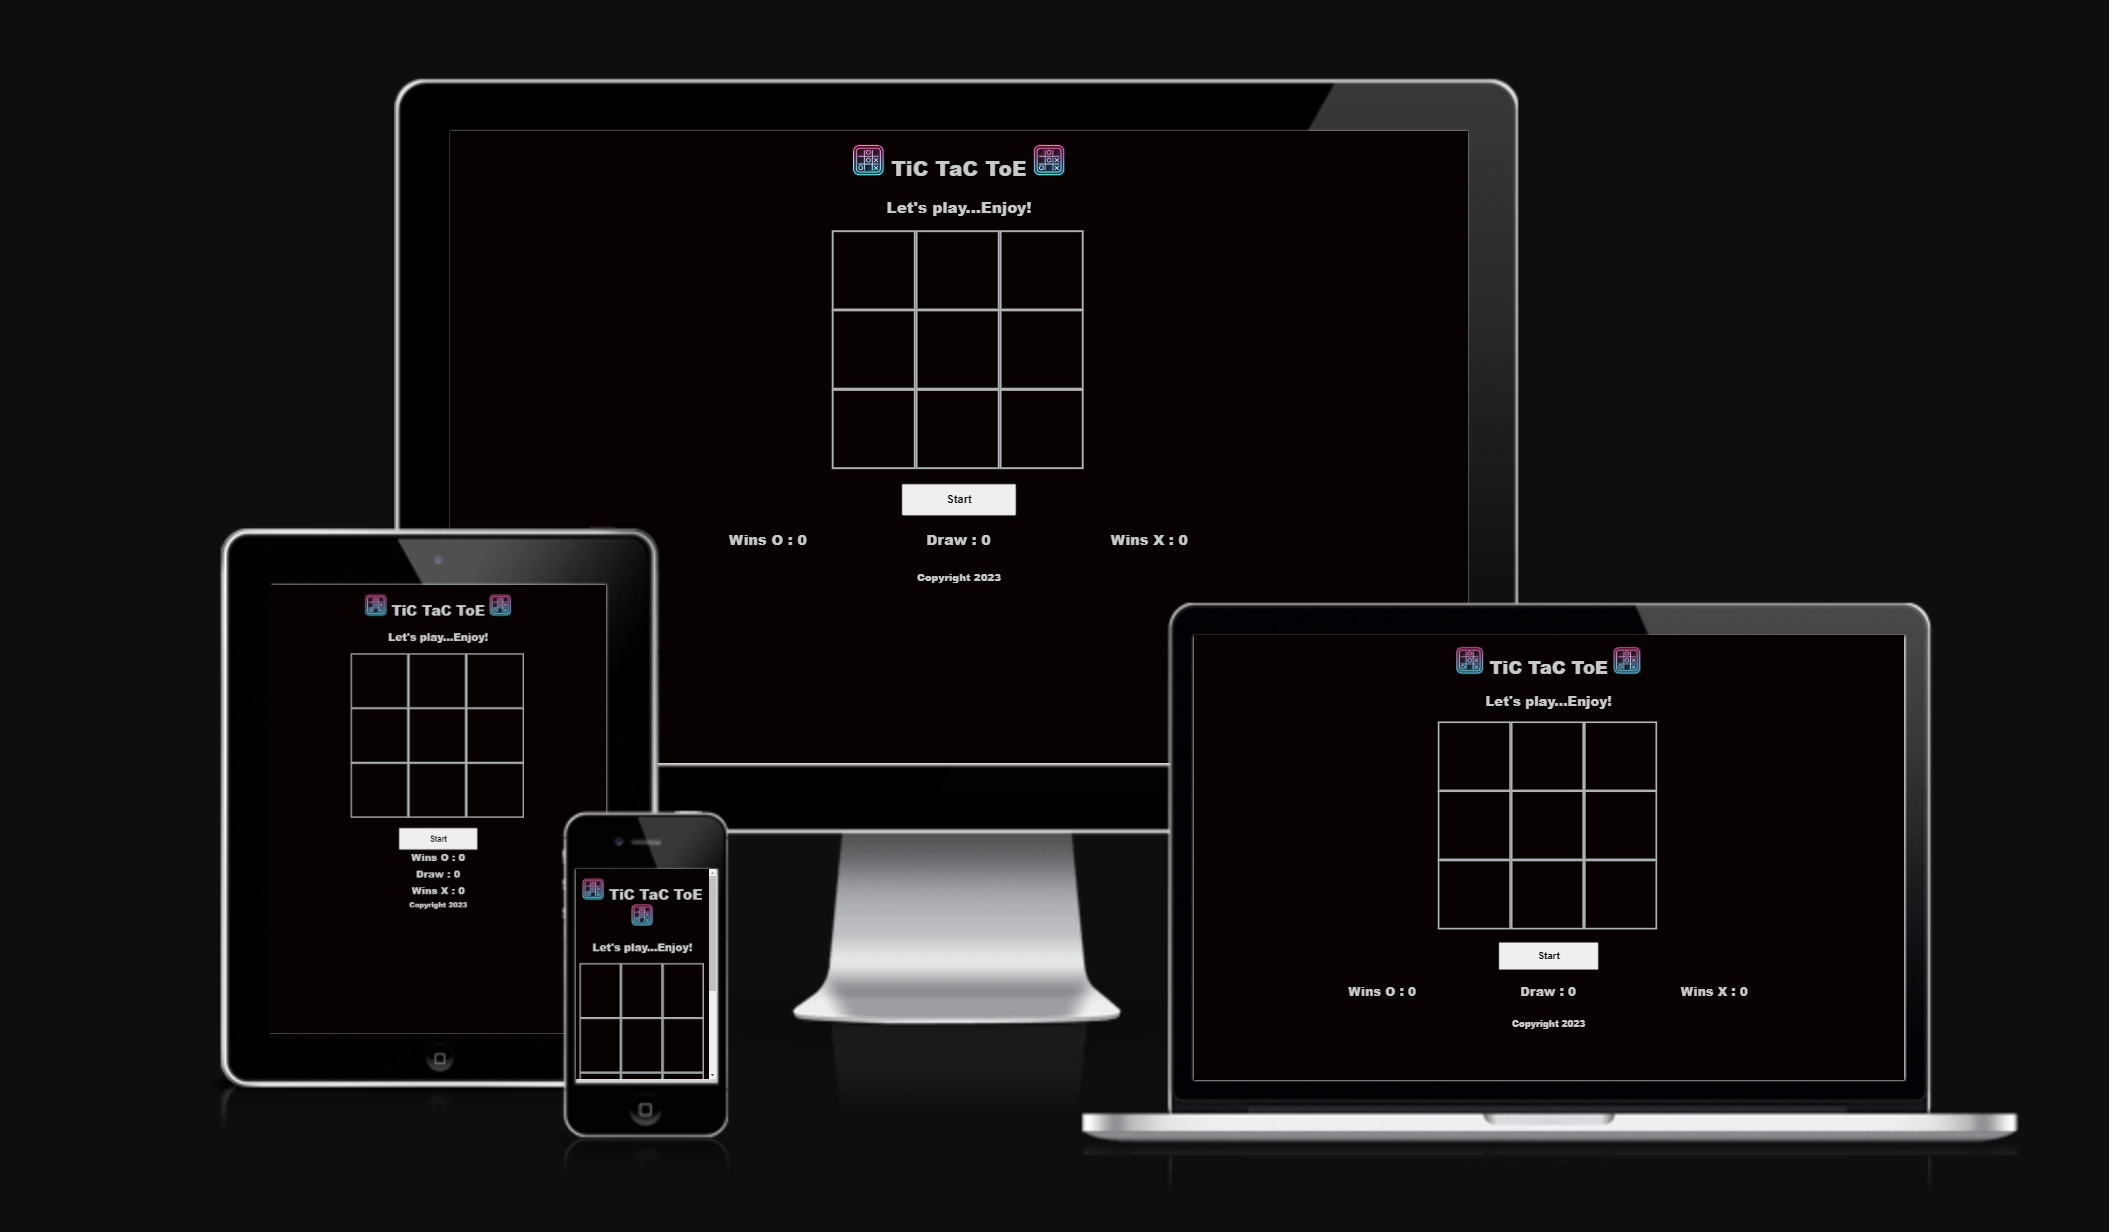
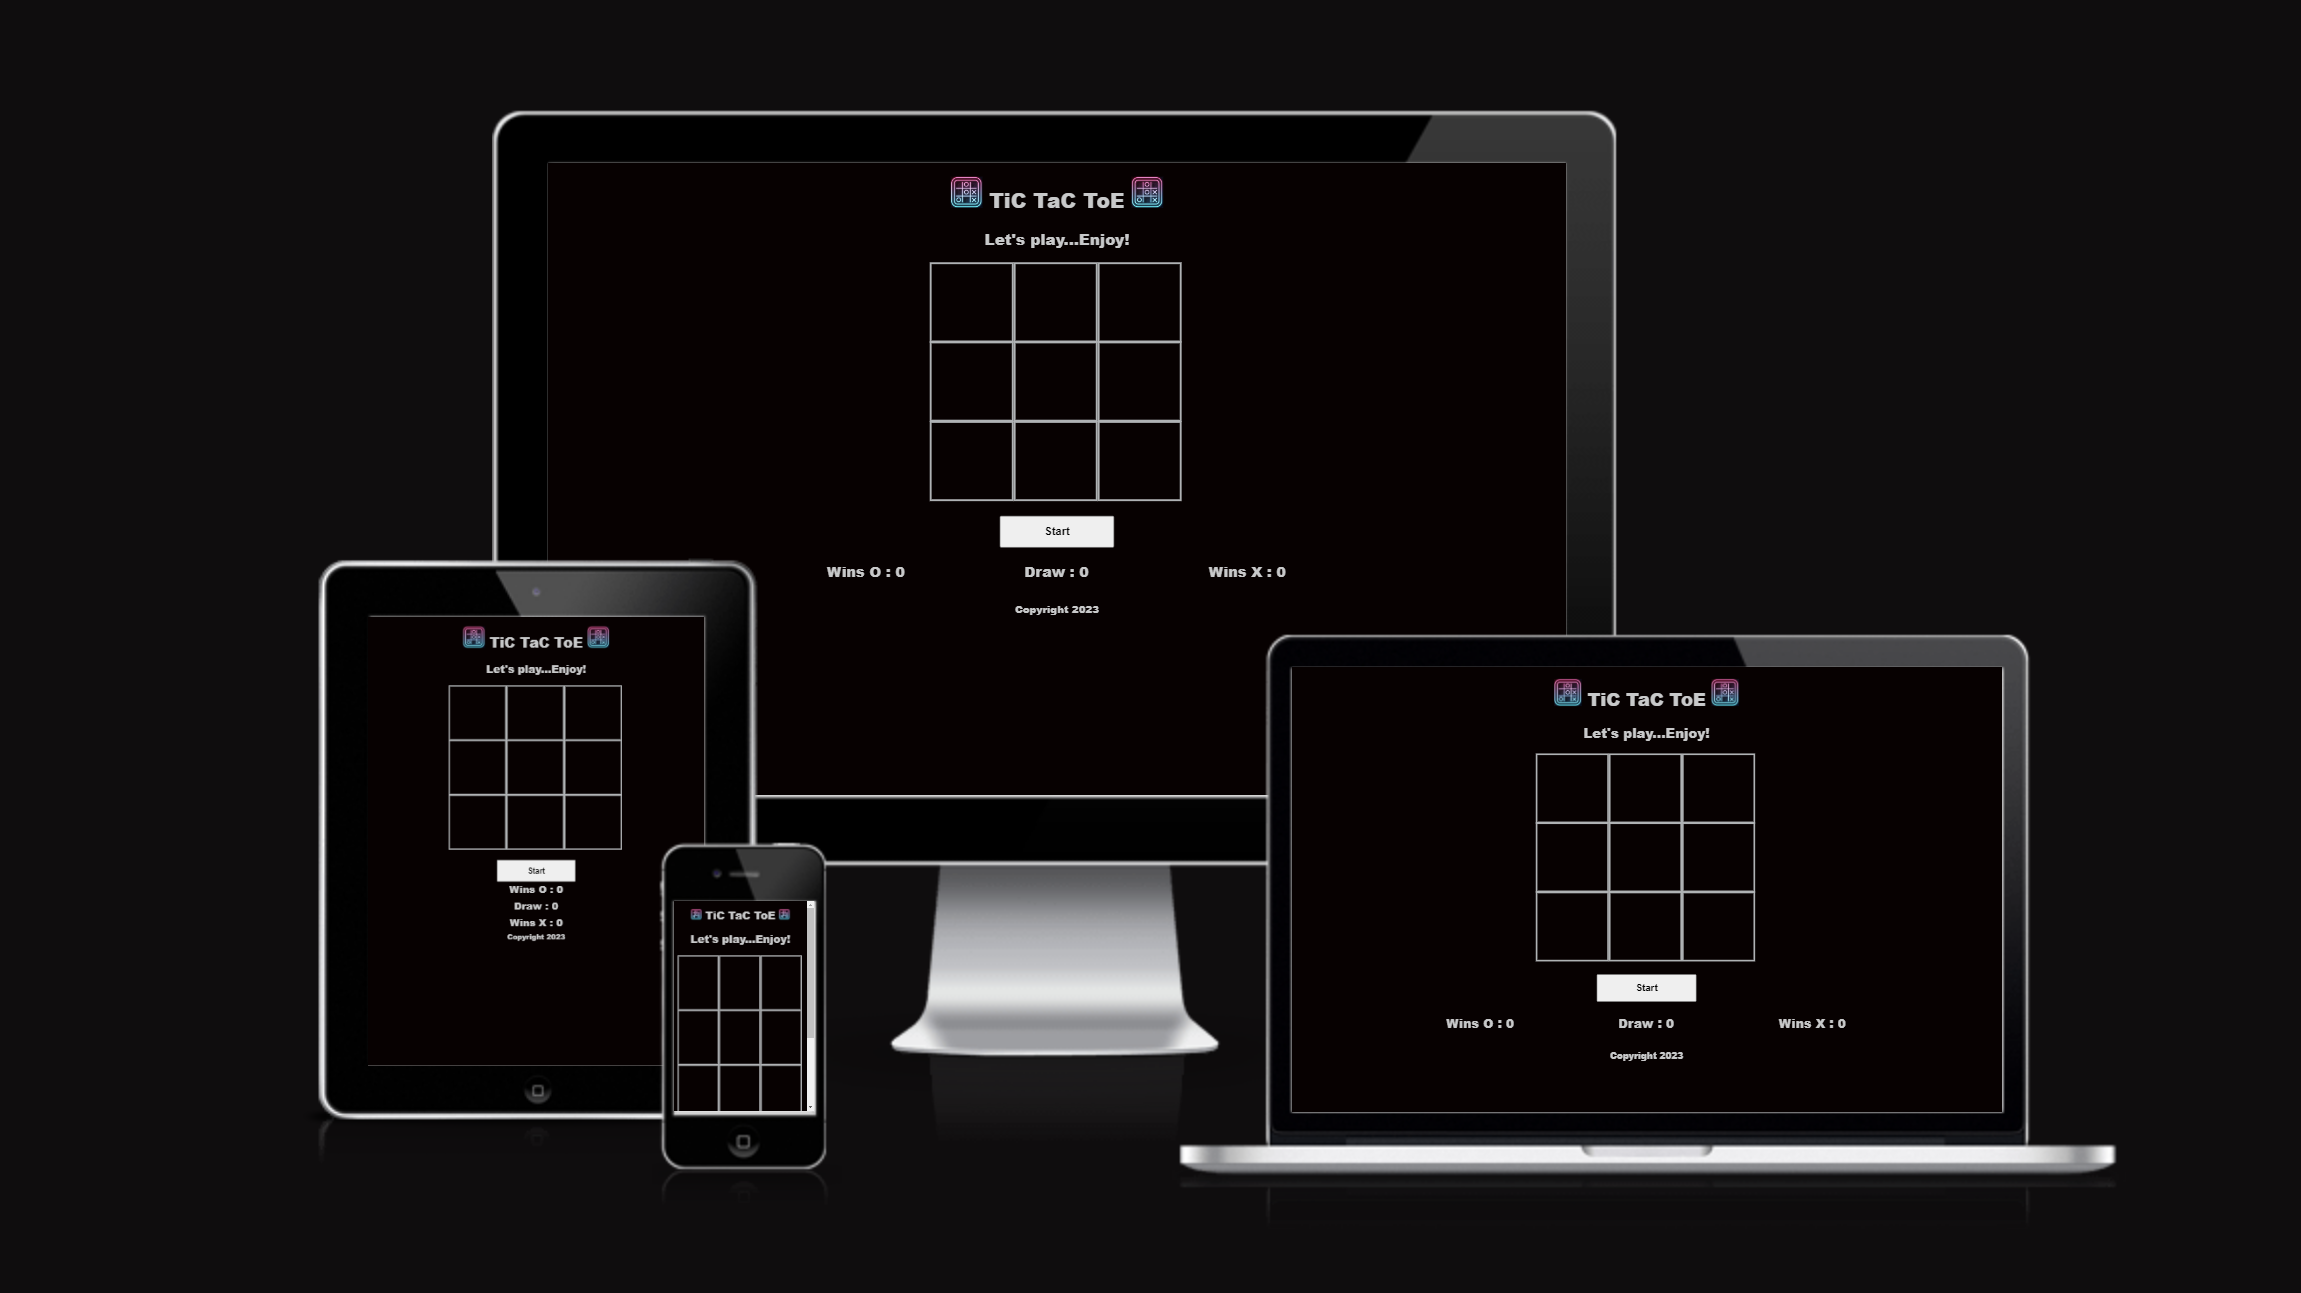
added class for the header-text>h1 for mobile responsive

diff --git a/assets/css/index.css b/assets/css/index.css
@@ -148,4 +148,8 @@ body {
         margin-block-end: 0;
     }
 
+    .header-text>h1 {
+        font-size: 1.5em;
+    }
+
 }
